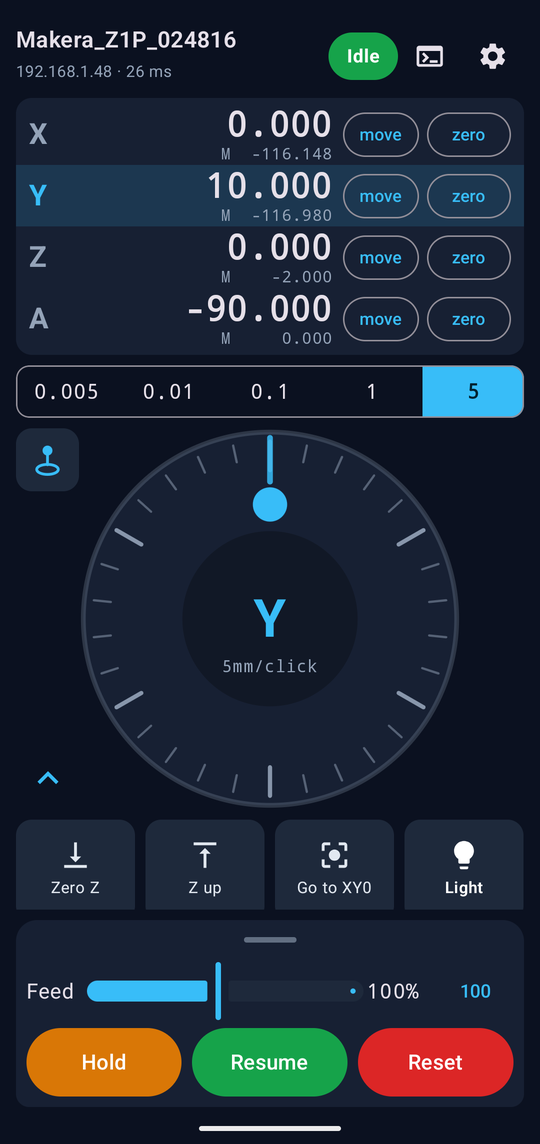
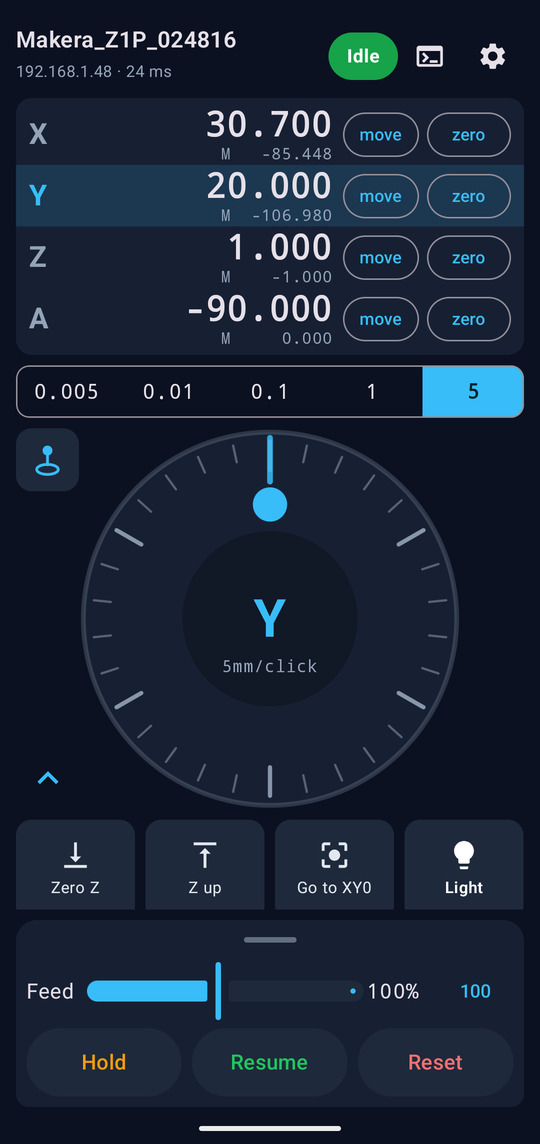
README: tablet layouts, state-lit stop buttons; tablet screenshots
- Features: drawer buttons quiet when idle and lit when relevant; tablets
  get a bigger readout, resizing dial/pad, and a landscape side-by-side layout.
- Requirements and iPhone section mention iPad (tested on an iPad Pro 11").
- docs/screenshots: 09_tablet_dial, 10_tablet_jogpad (iPad landscape, machine
  name replaced with the made-up one), 03_drawer retaken with the muted buttons.

diff --git a/README.md b/README.md
@@ -30,6 +30,11 @@ tap a jog pad, run your own hotkeys, and see live positions, all over Wi-Fi with
   Import/export the whole set as a file.
 - **Feed override, Hold, Resume, Reset** in a drawer at the bottom (swipe up). It opens by itself
   when the machine holds, alarms, or starts moving from somewhere else (e.g. a job from Makera Studio).
+  The buttons stay quiet while idle and light up when they matter: Hold and Reset while moving,
+  Resume on hold, Reset in an alarm.
+- **Tablets** (iPad, Android tablets): a bigger readout, and the dial / jog pad resize around your
+  hotkeys. Turn the tablet sideways for a side-by-side layout with everything on screen at once:
+  readout, hotkeys and the stop buttons on the left, steps and a big dial or jog pad on the right.
 - **Soft-limit protection**: jogs are clamped and typed moves refused before they reach the
   machine's soft limits, so they don't trip an alarm.
 - **Console**: every command sent and every reply, with time stamps, plus a box to type commands.
@@ -44,10 +49,15 @@ tap a jog pad, run your own hotkeys, and see live positions, all over Wi-Fi with
   <img src="docs/screenshots/07_console.png" width="200" alt="Console">
 </p>
 
+<p align="center">
+  <img src="docs/screenshots/09_tablet_dial.png" width="420" alt="Tablet, landscape, dial">
+  <img src="docs/screenshots/10_tablet_jogpad.png" width="420" alt="Tablet, landscape, jog pad">
+</p>
+
 ## Requirements
-- An Android phone on **Android 12 or newer** (developed on a Pixel 10, Android 16), or an
-  **iPhone on iOS 16 or newer** that you build and install yourself from a Mac (see
-  [iPhone](#iphone); tested on an iPhone 16, iOS 27).
+- An Android phone or tablet on **Android 12 or newer** (developed on a Pixel 10, Android 16), or an
+  **iPhone / iPad on iOS 16 or newer** that you build and install yourself from a Mac (see
+  [iPhone](#iphone); tested on an iPhone 16 with iOS 27 and an iPad Pro 11" with iPadOS 18).
 - A **Makera Z1** (developed on a Z1 Pro) on stock firmware, already set up on your Wi-Fi with the
   Makera app.
 - Phone and machine on the **same Wi-Fi network**.
@@ -70,11 +80,11 @@ The app isn't on the Play Store, so you install the APK file yourself ("sideload
 > Prefer installing from a computer? With [adb](https://developer.android.com/tools/adb) and USB
 > debugging on: `adb install z1-pendant-<version>.apk`.
 
-## iPhone
+## iPhone (and iPad)
 There's no App Store version, so you build the app on a Mac and install it on your iPhone with your
 own (free) Apple ID. It's the same app and the same screens as on Android.
 
-You need a Mac with **Xcode** (free, Mac App Store) and **Java 21** (e.g. [Temurin](https://adoptium.net)),
+The same steps install it on an iPad. You need a Mac with **Xcode** (free, Mac App Store) and **Java 21** (e.g. [Temurin](https://adoptium.net)),
 and a USB cable for the first install.
 
 1. Get the source: `git clone https://github.com/jimmyvegas29/makera-z1-pendant`
